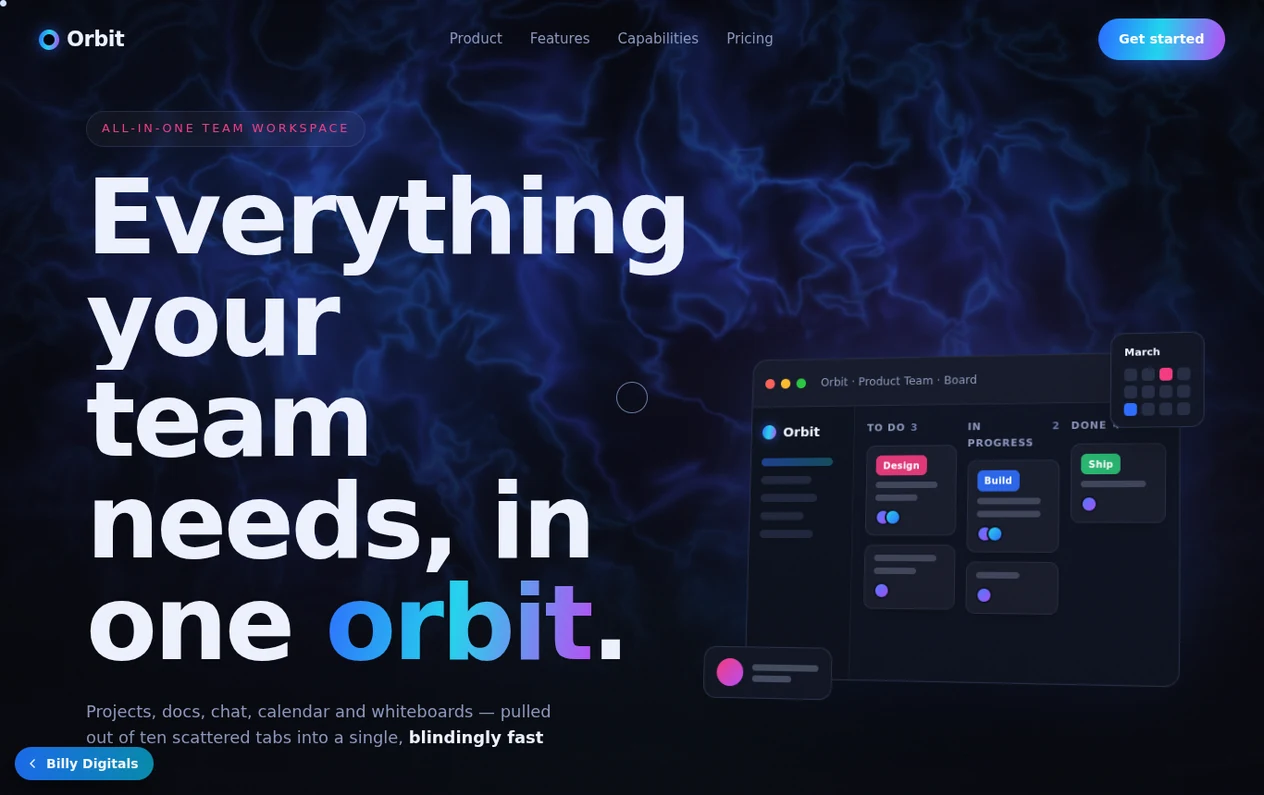
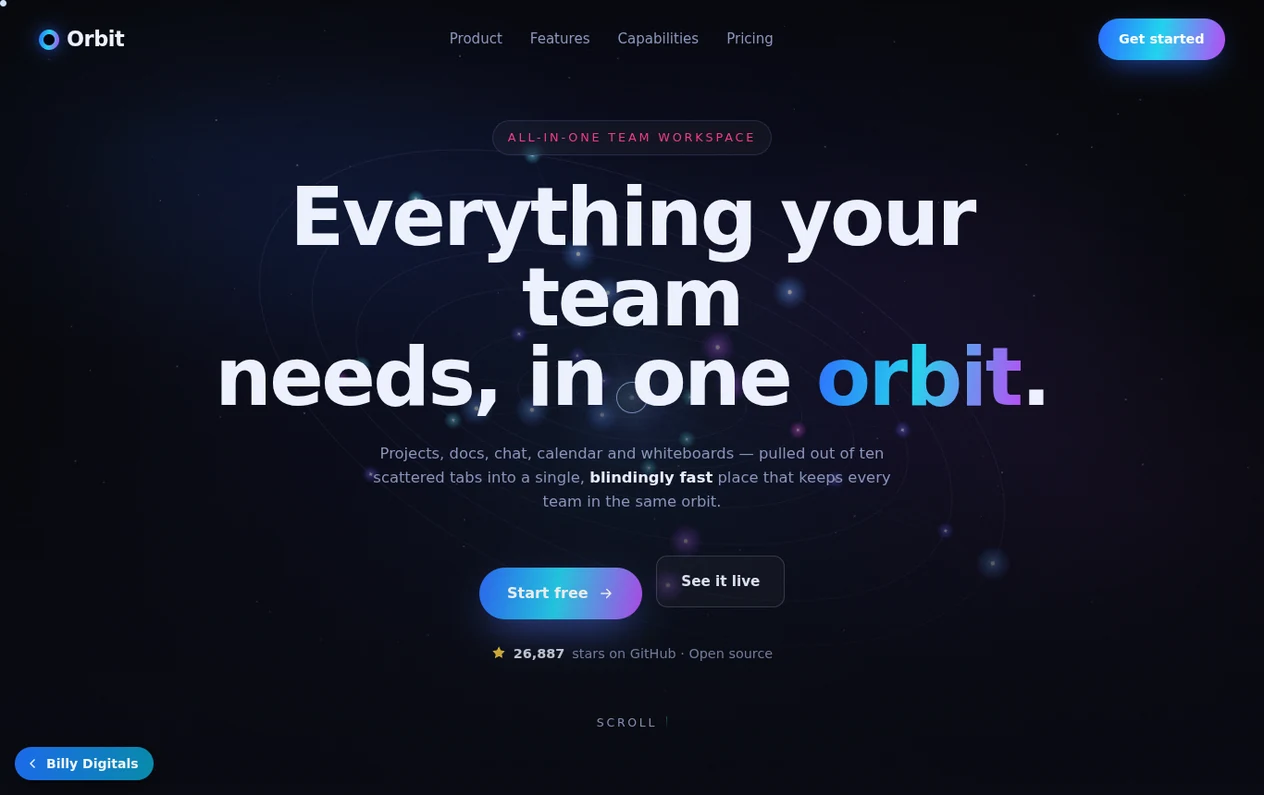
ORBIT: distinct cosmic identity + fix mobile hero cut (#129)
* ORBIT: add numbered 1-6 process ('the magic') + Next.js tech-stack diagram (Pixel-Point language)

* Add Meridian — zero-dependency SaaS-workspace flagship (caustic WebGL, scroll-scrubbed product tour, command palette, live latency meter) to Our Work; Billy Digitals branded

* Meridian: richer multi-colour caustic background (spectrum drift across teal/blue/indigo/green) + slower, smoother motion

* Meridian: scroll-reactive background temperature (cool blue top -> gold/magenta spectrum mid -> amber ending) via smoothed uProg uniform

* ORBIT: replace the 3D orb with a living caustic background (raw WebGL, no Three.js) in ORBIT's blue->violet->magenta colourway, scroll-reactive like Meridian; refresh card thumbnail

* ORBIT mobile: stack the horizontal capability cards (no pin overlap / no cut text) + lighten caustic (0.42 res, 30fps cap) to stop iOS purge-reloads during screen recording

* ORBIT: distinct cosmic 'orbital field' identity (Canvas 2D orbiting nodes/rings, not Meridian's caustic) + centered hero (fixes mobile cut, removes twin kanban UI)

---------

diff --git a/templates/orbit.js b/templates/orbit.js
@@ -1,10 +1,11 @@
 /* ============================================================
-   ORBIT — living caustic-silk background (raw WebGL, zero deps).
-   Same technique as the Meridian flagship, in ORBIT's own
-   colourway: cool cyan-blue at the top of the page, a drifting
-   blue/violet spectrum through the middle, warming to violet-
-   magenta toward the end. Reacts to the pointer and scroll.
-   Degrades to the CSS backdrop under reduced-motion / no WebGL.
+   ORBIT — "The Orbital Field": a cosmic system of glowing nodes
+   orbiting a luminous core on tilted concentric rings, over a
+   drifting nebula and a slow starfield. Canvas 2D (light, mobile-
+   friendly), pointer-parallax, and scroll-reactive (the whole
+   system shifts blue -> violet -> magenta as you descend).
+   A deliberately DIFFERENT signature from the Meridian flagship.
+   Degrades to the CSS backdrop under reduced-motion.
    ============================================================ */
 (function () {
   "use strict";
@@ -13,105 +14,111 @@
   var reduce = window.matchMedia && matchMedia("(prefers-reduced-motion: reduce)").matches;
   var mobile = window.matchMedia && matchMedia("(max-width: 820px)").matches;
   if (reduce) { canvas.style.display = "none"; return; }
+  var ctx = canvas.getContext("2d");
+  if (!ctx) { canvas.style.display = "none"; return; }
 
-  var gl = null;
-  try {
-    gl = canvas.getContext("webgl", { antialias: false, alpha: true, powerPreference: "high-performance" })
-      || canvas.getContext("experimental-webgl");
-  } catch (e) {}
-  if (!gl) { canvas.style.display = "none"; return; }
-  canvas.addEventListener("webglcontextlost", function (e) { e.preventDefault(); canvas.style.display = "none"; }, false);
-
-  var FS = [
-    'precision highp float;',
-    'uniform vec2 uRes; uniform float uT; uniform vec2 uM; uniform float uWarm; uniform float uAmp; uniform float uProg;',
-    'vec2 h2(vec2 p){p=vec2(dot(p,vec2(127.1,311.7)),dot(p,vec2(269.5,183.3)));return -1.+2.*fract(sin(p)*43758.5453);}',
-    'float nz(vec2 p){const float K1=.366025404,K2=.211324865;',
-    ' vec2 i=floor(p+(p.x+p.y)*K1),a=p-i+(i.x+i.y)*K2;float m=step(a.y,a.x);vec2 o=vec2(m,1.-m),b=a-o+K2,c=a-1.+2.*K2;',
-    ' vec3 h=max(.5-vec3(dot(a,a),dot(b,b),dot(c,c)),0.);',
-    ' vec3 n=h*h*h*h*vec3(dot(a,h2(i)),dot(b,h2(i+o)),dot(c,h2(i+1.)));return dot(n,vec3(70.));}',
-    'float fbm(vec2 p){float v=0.,a=.5;for(int i=0;i<OCT;i++){v+=a*nz(p);p*=2.03;a*=.5;}return v;}',
-    'void main(){',
-    ' vec2 uv=(gl_FragCoord.xy-.5*uRes)/uRes.y;',
-    ' float t=uT*.038;',
-    ' vec2 m=(uM-.5)*vec2(uRes.x/uRes.y,1.)*2.;',
-    ' float md=length(uv-m);',
-    ' vec2 p=uv*1.55;',
-    ' p+=.20*vec2(fbm(p+vec2(0.,t)),fbm(p+vec2(t,3.1)));',
-    ' p+=.11*vec2(fbm(p*2.2+vec2(t*1.4,5.2)),fbm(p*2.2+vec2(1.7,-t*1.1)));',
-    ' p+=.07*normalize(uv-m+1e-4)*exp(-md*2.4);',
-    ' float f1=pow(1.-abs(fbm(p*1.35+t*.5)),9.);',
-    ' float f2=pow(1.-abs(fbm(p*2.7-t*.8)),15.);',
-    ' float g=(f1*.72+f2*.5)*uAmp;',
-    ' g*=smoothstep(1.4,.05,length(uv*vec2(.85,1.)));',
-    // ORBIT colourway: cyan-blue -> violet -> magenta (no green/amber)
-    ' float uCool=smoothstep(.16,0.,uProg);',
-    ' float hue=.37+.11*fbm(p*.95+t*.5)+.06*uv.x+.04*sin(t*.7)+g*.05;',
-    ' hue=mix(hue,.34,uCool*.7);',
-    ' vec3 spec=.5+.5*cos(6.2831853*(hue+vec3(0.,.33,.67)));',
-    ' vec3 mag=vec3(1.,.24,.56);',
-    ' vec3 cold=mix(vec3(.02,.03,.10),spec,g);',
-    ' vec3 warm=mix(vec3(.06,.02,.08),mix(vec3(.66,.30,1.),mag,.62),g);',
-    ' vec3 col=mix(cold,warm,uWarm);',
-    ' vec3 spec2=.5+.5*cos(6.2831853*(hue+.12+vec3(0.,.33,.67)));',
-    ' col+=spec2*pow(f2,1.4)*.22*(1.-uWarm);',
-    ' col+=vec3(.05,.05,.15)*pow(g,2.0);',
-    ' gl_FragColor=vec4(col,1.);}'
-  ].join('\n');
-  var VS = 'attribute vec2 a;void main(){gl_Position=vec4(a,0.,1.);}';
-
-  function mk(type, src) {
-    var o = gl.createShader(type); gl.shaderSource(o, src); gl.compileShader(o);
-    return gl.getShaderParameter(o, gl.COMPILE_STATUS) ? o : null;
-  }
-  var vsh = mk(gl.VERTEX_SHADER, VS), fsh = mk(gl.FRAGMENT_SHADER, FS.replace('OCT', mobile ? '3' : '4'));
-  if (!vsh || !fsh) { canvas.style.display = "none"; return; }
-  var pr = gl.createProgram(); gl.attachShader(pr, vsh); gl.attachShader(pr, fsh); gl.linkProgram(pr);
-  if (!gl.getProgramParameter(pr, gl.LINK_STATUS)) { canvas.style.display = "none"; return; }
-  gl.useProgram(pr);
-  var bf = gl.createBuffer(); gl.bindBuffer(gl.ARRAY_BUFFER, bf);
-  gl.bufferData(gl.ARRAY_BUFFER, new Float32Array([-1, -1, 3, -1, -1, 3]), gl.STATIC_DRAW);
-  var la = gl.getAttribLocation(pr, 'a'); gl.enableVertexAttribArray(la); gl.vertexAttribPointer(la, 2, gl.FLOAT, false, 0, 0);
-  var U = {
-    res: gl.getUniformLocation(pr, 'uRes'), t: gl.getUniformLocation(pr, 'uT'), m: gl.getUniformLocation(pr, 'uM'),
-    w: gl.getUniformLocation(pr, 'uWarm'), a: gl.getUniformLocation(pr, 'uAmp'), pg: gl.getUniformLocation(pr, 'uProg')
-  };
-  var SC = mobile ? 0.42 : 0.62;
+  var DPR = Math.min(window.devicePixelRatio || 1, mobile ? 1.5 : 2);
+  var W, H, cx, cy, R;
   function size() {
-    var w = Math.max(1, Math.round(window.innerWidth * SC)), h = Math.max(1, Math.round(window.innerHeight * SC));
-    canvas.width = w; canvas.height = h; gl.viewport(0, 0, w, h); gl.uniform2f(U.res, w, h);
+    W = window.innerWidth; H = window.innerHeight;
+    canvas.width = Math.round(W * DPR); canvas.height = Math.round(H * DPR);
+    canvas.style.width = W + "px"; canvas.style.height = H + "px";
+    ctx.setTransform(DPR, 0, 0, DPR, 0, 0);
+    cx = W * 0.5; cy = H * 0.5; R = Math.min(W, H);
   }
-  size(); window.addEventListener('resize', size);
+  size(); window.addEventListener("resize", size);
 
-  var M = { x: .5, y: .42, tx: .5, ty: .42 }, S = { prog: 0, pgS: 0 };
-  var T0 = performance.now(), raf = null;
-  var lastDraw = 0, minDelta = mobile ? (1000 / 30) : 0;   // cap mobile to ~30fps to ease GPU/battery
-  function lerp(a, b, k) { return a + (b - a) * k; }
-  function clamp(v, a, b) { return Math.min(Math.max(v, a), b); }
-  window.addEventListener('pointermove', function (e) { M.tx = e.clientX / window.innerWidth; M.ty = 1 - e.clientY / window.innerHeight; }, { passive: true });
-  function onScroll() {
-    var doc = document.documentElement.scrollHeight - window.innerHeight;
-    S.prog = clamp((window.pageYOffset || 0) / (doc || 1), 0, 1);
+  // ---- build the rings + orbiting nodes ----
+  var RINGS = mobile ? 5 : 7;
+  var rings = [];
+  for (var i = 0; i < RINGS; i++) {
+    var frac = 0.14 + (i / (RINGS - 1)) * 0.82;      // ring radius as fraction of R/2
+    var count = 3 + (i % 3);                           // 3..5 nodes per ring
+    var nodes = [];
+    for (var j = 0; j < count; j++) {
+      nodes.push({
+        ang: (j / count) * Math.PI * 2 + i * 0.7,
+        sp: (0.5 + (i % 2 ? 0.3 : -0.45)) * (1 - i * 0.05),
+        hueOff: (j * 26) - 20,
+        sz: 1.8 + (j % 2) * 1.7
+      });
+    }
+    rings.push({ frac: frac, tilt: 0.34 + i * 0.03, nodes: nodes, spin: (i % 2 ? 1 : -1) * (0.5 + i * 0.08), base: i * 0.5 });
   }
-  window.addEventListener('scroll', onScroll, { passive: true }); onScroll();
+  var stars = [], SN = mobile ? 80 : 150;
+  for (var s = 0; s < SN; s++) stars.push({ x: Math.random(), y: Math.random(), z: Math.random() * 0.85 + 0.15 });
 
-  function loop(now) {
-    raf = requestAnimationFrame(loop);
+  var mx = 0, my = 0, tmx = 0, tmy = 0, prog = 0, tprog = 0, rot = 0;
+  window.addEventListener("pointermove", function (e) { tmx = e.clientX / window.innerWidth - 0.5; tmy = e.clientY / window.innerHeight - 0.5; }, { passive: true });
+  window.addEventListener("scroll", function () {
+    var d = document.documentElement.scrollHeight - window.innerHeight;
+    tprog = Math.min(Math.max((window.pageYOffset || 0) / (d || 1), 0), 1);
+  }, { passive: true });
+
+  var last = performance.now(), lastDraw = 0, minDelta = mobile ? (1000 / 30) : 0, raf = null;
+  function frame(now) {
+    raf = requestAnimationFrame(frame);
     if (document.hidden) return;
-    if (now - lastDraw < minDelta) return;   // frame throttle (mobile)
-    lastDraw = now;
-    M.x = lerp(M.x, M.tx, .045); M.y = lerp(M.y, M.ty, .045);
-    var pw = S.prog;                                 // Lenis already smooths scroll
-    var warm = clamp((pw - 0.6) / 0.4, 0, 1);        // warms to violet-magenta toward the end
-    var amp = 1.0 - pw * 0.10;
-    gl.uniform1f(U.t, (now - T0) / 1000);
-    gl.uniform2f(U.m, M.x, M.y);
-    gl.uniform1f(U.w, warm);
-    gl.uniform1f(U.a, amp);
-    gl.uniform1f(U.pg, pw);
-    gl.drawArrays(gl.TRIANGLES, 0, 3);
+    if (now - lastDraw < minDelta) return;
+    var dt = Math.min(0.05, (now - last) / 1000 || 0.016); last = now; lastDraw = now;
+
+    mx += (tmx - mx) * 0.05; my += (tmy - my) * 0.05;
+    prog += (tprog - prog) * 0.06; rot += dt * 0.04;
+    var ox = cx + mx * 34, oy = cy + my * 26;
+    var hue0 = 212 + prog * 120;                       // blue -> violet/magenta with scroll
+
+    ctx.clearRect(0, 0, W, H);
+
+    // nebula
+    var g = ctx.createRadialGradient(ox, oy, 0, cx, cy, R * 0.82);
+    g.addColorStop(0, "hsla(" + hue0 + ",92%,62%,0.24)");
+    g.addColorStop(0.4, "hsla(" + (hue0 + 24) + ",82%,54%,0.09)");
+    g.addColorStop(1, "rgba(0,0,0,0)");
+    ctx.fillStyle = g; ctx.fillRect(0, 0, W, H);
+
+    // starfield
+    for (var k = 0; k < stars.length; k++) {
+      var st = stars[k], sx = st.x * W + mx * 22 * st.z, sy = st.y * H + my * 18 * st.z;
+      ctx.globalAlpha = st.z * 0.5; ctx.fillStyle = "#c3d4ff";
+      var ss = st.z * 1.7; ctx.fillRect(sx, sy, ss, ss);
+    }
+    ctx.globalAlpha = 1;
+
+    // rings + nodes
+    for (var i = 0; i < rings.length; i++) {
+      var ring = rings[i], rad = ring.frac * R * 0.52, ry = rad * ring.tilt;
+      ring.base += ring.spin * dt * 0.12;
+      ctx.save();
+      ctx.translate(ox, oy);
+      ctx.rotate(rot * ring.spin * 0.5 + ring.base * 0.15 + mx * 0.12);
+      // orbit path
+      ctx.beginPath(); ctx.ellipse(0, 0, rad, ry, 0, 0, Math.PI * 2);
+      ctx.strokeStyle = "hsla(" + (hue0 + i * 8) + ",72%,74%,0.16)"; ctx.lineWidth = 1; ctx.stroke();
+      // nodes on this ring
+      for (var j = 0; j < ring.nodes.length; j++) {
+        var nd = ring.nodes[j]; nd.ang += nd.sp * dt * 0.5;
+        var nx = Math.cos(nd.ang) * rad, ny = Math.sin(nd.ang) * ry;
+        var hue = hue0 + nd.hueOff;
+        ctx.beginPath(); ctx.moveTo(0, 0); ctx.lineTo(nx, ny);
+        ctx.strokeStyle = "hsla(" + hue + ",85%,66%,0.09)"; ctx.lineWidth = 1; ctx.stroke();
+        var ng = ctx.createRadialGradient(nx, ny, 0, nx, ny, nd.sz * 5.5);
+        ng.addColorStop(0, "hsla(" + hue + ",95%,74%,0.9)");
+        ng.addColorStop(1, "hsla(" + hue + ",95%,60%,0)");
+        ctx.fillStyle = ng; ctx.beginPath(); ctx.arc(nx, ny, nd.sz * 5.5, 0, Math.PI * 2); ctx.fill();
+        ctx.fillStyle = "#fff"; ctx.beginPath(); ctx.arc(nx, ny, nd.sz * 0.62, 0, Math.PI * 2); ctx.fill();
+      }
+      ctx.restore();
+    }
+
+    // luminous core
+    var cg = ctx.createRadialGradient(ox, oy, 0, ox, oy, R * 0.1);
+    cg.addColorStop(0, "hsla(" + hue0 + ",95%,78%,0.55)");
+    cg.addColorStop(0.5, "hsla(" + (hue0 + 15) + ",95%,64%,0.14)");
+    cg.addColorStop(1, "hsla(" + hue0 + ",95%,60%,0)");
+    ctx.fillStyle = cg; ctx.beginPath(); ctx.arc(ox, oy, R * 0.1, 0, Math.PI * 2); ctx.fill();
+    ctx.fillStyle = "hsla(" + hue0 + ",98%,85%,0.9)"; ctx.beginPath(); ctx.arc(ox, oy, 2.4, 0, Math.PI * 2); ctx.fill();
   }
-  raf = requestAnimationFrame(loop);
+  raf = requestAnimationFrame(frame);
 })();
 
 /* ============================================================

diff --git a/templates/orbit.html b/templates/orbit.html
@@ -38,58 +38,20 @@
   <section class="hero" id="top">
     <canvas class="orbit-gl" id="orbit-gl" aria-hidden="true"></canvas>
     <div class="hero-scrim" aria-hidden="true"></div>
-    <div class="hero-inner hero-split">
-      <div class="hero-copy">
-        <p class="hero-eyebrow eyebrow">All-in-one team workspace</p>
-        <h1>
-          <span class="ln"><span>Everything your</span></span>
-          <span class="ln"><span>team needs, in</span></span>
-          <span class="ln"><span>one <em>orbit</em>.</span></span>
-        </h1>
-        <p class="hero-sub">Projects, docs, chat, calendar and whiteboards — pulled out of ten scattered tabs into a single, <b>blindingly fast</b> place.</p>
-        <div class="hero-actions">
-          <a class="hero-cta magnetic" href="#join">Start free
-            <svg viewBox="0 0 24 24" fill="none" stroke="currentColor" stroke-width="2" stroke-linecap="round" stroke-linejoin="round"><path d="M5 12h14M13 6l6 6-6 6"/></svg>
-          </a>
-          <a class="hero-ghost" href="#product">See it live</a>
-        </div>
-        <p class="hero-meta"><svg viewBox="0 0 24 24" fill="currentColor" aria-hidden="true"><path d="M12 .5l3.09 6.26L22 7.77l-5 4.87 1.18 6.88L12 16.26 5.82 19.52 7 12.64 2 7.77l6.91-1.01z"/></svg> <b>26,887</b> stars on GitHub · Open source</p>
+    <div class="hero-inner hero-centered">
+      <p class="hero-eyebrow eyebrow">All-in-one team workspace</p>
+      <h1>
+        <span class="ln"><span>Everything your team</span></span>
+        <span class="ln"><span>needs, in one <em>orbit</em>.</span></span>
+      </h1>
+      <p class="hero-sub">Projects, docs, chat, calendar and whiteboards — pulled out of ten scattered tabs into a single, <b>blindingly fast</b> place that keeps every team in the same orbit.</p>
+      <div class="hero-actions">
+        <a class="hero-cta magnetic" href="#join">Start free
+          <svg viewBox="0 0 24 24" fill="none" stroke="currentColor" stroke-width="2" stroke-linecap="round" stroke-linejoin="round"><path d="M5 12h14M13 6l6 6-6 6"/></svg>
+        </a>
+        <a class="hero-ghost" href="#product">See it live</a>
       </div>
-
-      <!-- pixel-perfect floating product UI -->
-      <div class="hero-ui" data-heroui aria-hidden="true">
-        <div class="hui-win">
-          <div class="hui-bar"><i></i><i></i><i></i><span class="hui-crumb">Orbit · Product Team · Board</span><span class="hui-k">⌘K</span></div>
-          <div class="hui-body">
-            <div class="hui-side">
-              <span class="hui-brand"><b></b>Orbit</span>
-              <span class="hui-nav on"></span><span class="hui-nav"></span><span class="hui-nav"></span><span class="hui-nav"></span><span class="hui-nav"></span>
-            </div>
-            <div class="hui-board">
-              <div class="hui-col"><h6>To do <span>3</span></h6>
-                <div class="hui-card"><span class="ct pink">Design</span><span class="cl"></span><span class="cl s"></span><span class="cav"><i></i><i></i></span></div>
-                <div class="hui-card"><span class="cl"></span><span class="cl s"></span><span class="cav"><i></i></span></div>
-              </div>
-              <div class="hui-col"><h6>In progress <span>2</span></h6>
-                <div class="hui-card"><span class="ct blue">Build</span><span class="cl"></span><span class="cl"></span><span class="cav"><i></i><i></i></span></div>
-                <div class="hui-card"><span class="cl s"></span><span class="cav"><i></i></span></div>
-              </div>
-              <div class="hui-col"><h6>Done <span>4</span></h6>
-                <div class="hui-card"><span class="ct green">Ship</span><span class="cl"></span><span class="cav"><i></i></span></div>
-              </div>
-            </div>
-          </div>
-        </div>
-        <div class="hui-float hui-cal">
-          <span class="fl-h">March</span>
-          <span class="fl-grid"><i></i><i></i><i class="on"></i><i></i><i></i><i></i><i></i><i></i><i class="on2"></i><i></i><i></i><i></i></span>
-        </div>
-        <div class="hui-float hui-chat">
-          <span class="fl-av"></span>
-          <span class="fl-lines"><span></span><span class="sm"></span></span>
-        </div>
-      </div>
-
+      <p class="hero-meta"><svg viewBox="0 0 24 24" fill="currentColor" aria-hidden="true"><path d="M12 .5l3.09 6.26L22 7.77l-5 4.87 1.18 6.88L12 16.26 5.82 19.52 7 12.64 2 7.77l6.91-1.01z"/></svg> <b>26,887</b> stars on GitHub · Open source</p>
       <span class="scroll-cue" aria-hidden="true">Scroll <i></i></span>
     </div>
   </section>

diff --git a/templates/orbit.css b/templates/orbit.css
@@ -57,10 +57,13 @@ em{font-style:normal;background:var(--grad);-webkit-background-clip:text;backgro
 
 /* ---------- hero ---------- */
 .hero{position:relative;min-height:100svh;display:flex;align-items:center;overflow:hidden}
-.orbit-gl{position:fixed;inset:0;width:100vw;height:100vh;z-index:0;pointer-events:none;opacity:.5;
-  -webkit-mask-image:radial-gradient(135% 95% at 50% 16%,#000 20%,transparent 80%);
-  mask-image:radial-gradient(135% 95% at 50% 16%,#000 20%,transparent 80%)}
-.hero-scrim{position:absolute;inset:0;z-index:1;background:radial-gradient(120% 90% at 50% 0%,transparent 40%,rgba(5,6,14,.55) 100%),linear-gradient(180deg,transparent 55%,var(--bg) 100%)}
+.orbit-gl{position:fixed;inset:0;width:100vw;height:100vh;z-index:0;pointer-events:none;opacity:.9;
+  -webkit-mask-image:radial-gradient(130% 115% at 50% 46%,#000 40%,transparent 92%);
+  mask-image:radial-gradient(130% 115% at 50% 46%,#000 40%,transparent 92%)}
+.hero-scrim{position:absolute;inset:0;z-index:1;background:
+  radial-gradient(72% 54% at 50% 46%, rgba(5,6,14,.58), transparent 72%),
+  radial-gradient(120% 90% at 50% 0%,transparent 40%,rgba(5,6,14,.5) 100%),
+  linear-gradient(180deg,transparent 55%,var(--bg) 100%)}
 .hero-inner{position:relative;z-index:2;width:min(1180px,92vw);margin-inline:auto;padding-top:12vh}
 .hero-eyebrow{opacity:0;transform:translateY(10px);display:inline-block;margin-bottom:22px;
   padding:8px 16px;border:1px solid var(--line);border-radius:999px;background:rgba(255,255,255,.03);backdrop-filter:blur(6px)}
@@ -598,3 +601,30 @@ em.mag{ background:none; -webkit-text-fill-color:initial; color:var(--accent); }
 .stk-md b span{ font-size:1.2rem; margin:0 1px; opacity:.9; }
 .stk-md-cap{ font-size:.9rem; color:rgba(255,255,255,.82); }
 @media (max-width:560px){ .stk-branches{ grid-template-columns:1fr; } .stk-wires{ display:none; } }
+
+/* ============================================================
+   HERO — centered over the orbital field (distinct from Meridian)
+   ============================================================ */
+.hero{ text-align:left; }
+.hero-centered{ position:relative; z-index:2; width:min(1000px,92vw); margin-inline:auto;
+  display:flex; flex-direction:column; align-items:center; text-align:center; padding-top:8vh; }
+.hero-centered .hero-eyebrow{ margin-bottom:24px; }
+.hero-centered h1{ font-size:clamp(2.3rem,6.6vw,5.4rem); line-height:1.0; }
+.hero-centered h1 em{ font-style:normal; }
+.hero-centered .hero-sub{ margin:26px auto 0; max-width:54ch; color:var(--mut); font-size:clamp(1rem,1.2vw,1.16rem); opacity:0; }
+.hero-centered .hero-sub b{ color:var(--ink); font-weight:600; }
+.hero-centered .hero-actions{ display:flex; gap:16px; justify-content:center; margin-top:32px; flex-wrap:wrap; opacity:0; }
+.hero-centered .hero-meta{ display:inline-flex; align-items:center; gap:8px; justify-content:center; margin-top:26px;
+  font-size:.9rem; color:var(--mut); opacity:0; }
+.hero-centered .hero-meta svg{ width:16px; height:16px; color:#ffd23d; }
+.hero-centered .hero-meta b{ color:var(--ink); font-weight:700; }
+.hero-centered .hero-ghost{ font-family:var(--disp); font-weight:600; font-size:.95rem; color:var(--ink);
+  padding:15px 26px; border-radius:12px; border:1px solid var(--line2, rgba(255,255,255,.16)); background:rgba(255,255,255,.03);
+  transition:border-color .25s, background .25s; }
+.hero-centered .hero-ghost:hover{ border-color:rgba(160,190,255,.5); background:rgba(255,255,255,.06); }
+.hero-centered .scroll-cue{ position:static; margin-top:46px; }
+.is-in .hero-centered .hero-sub, .is-in .hero-centered .hero-actions, .is-in .hero-centered .hero-meta{ opacity:1; transition:opacity .8s ease .3s; }
+@media (max-width:640px){
+  .hero-centered{ padding-top:12vh; }
+  .hero-centered h1{ font-size:clamp(2rem,8.6vw,2.8rem); }
+}